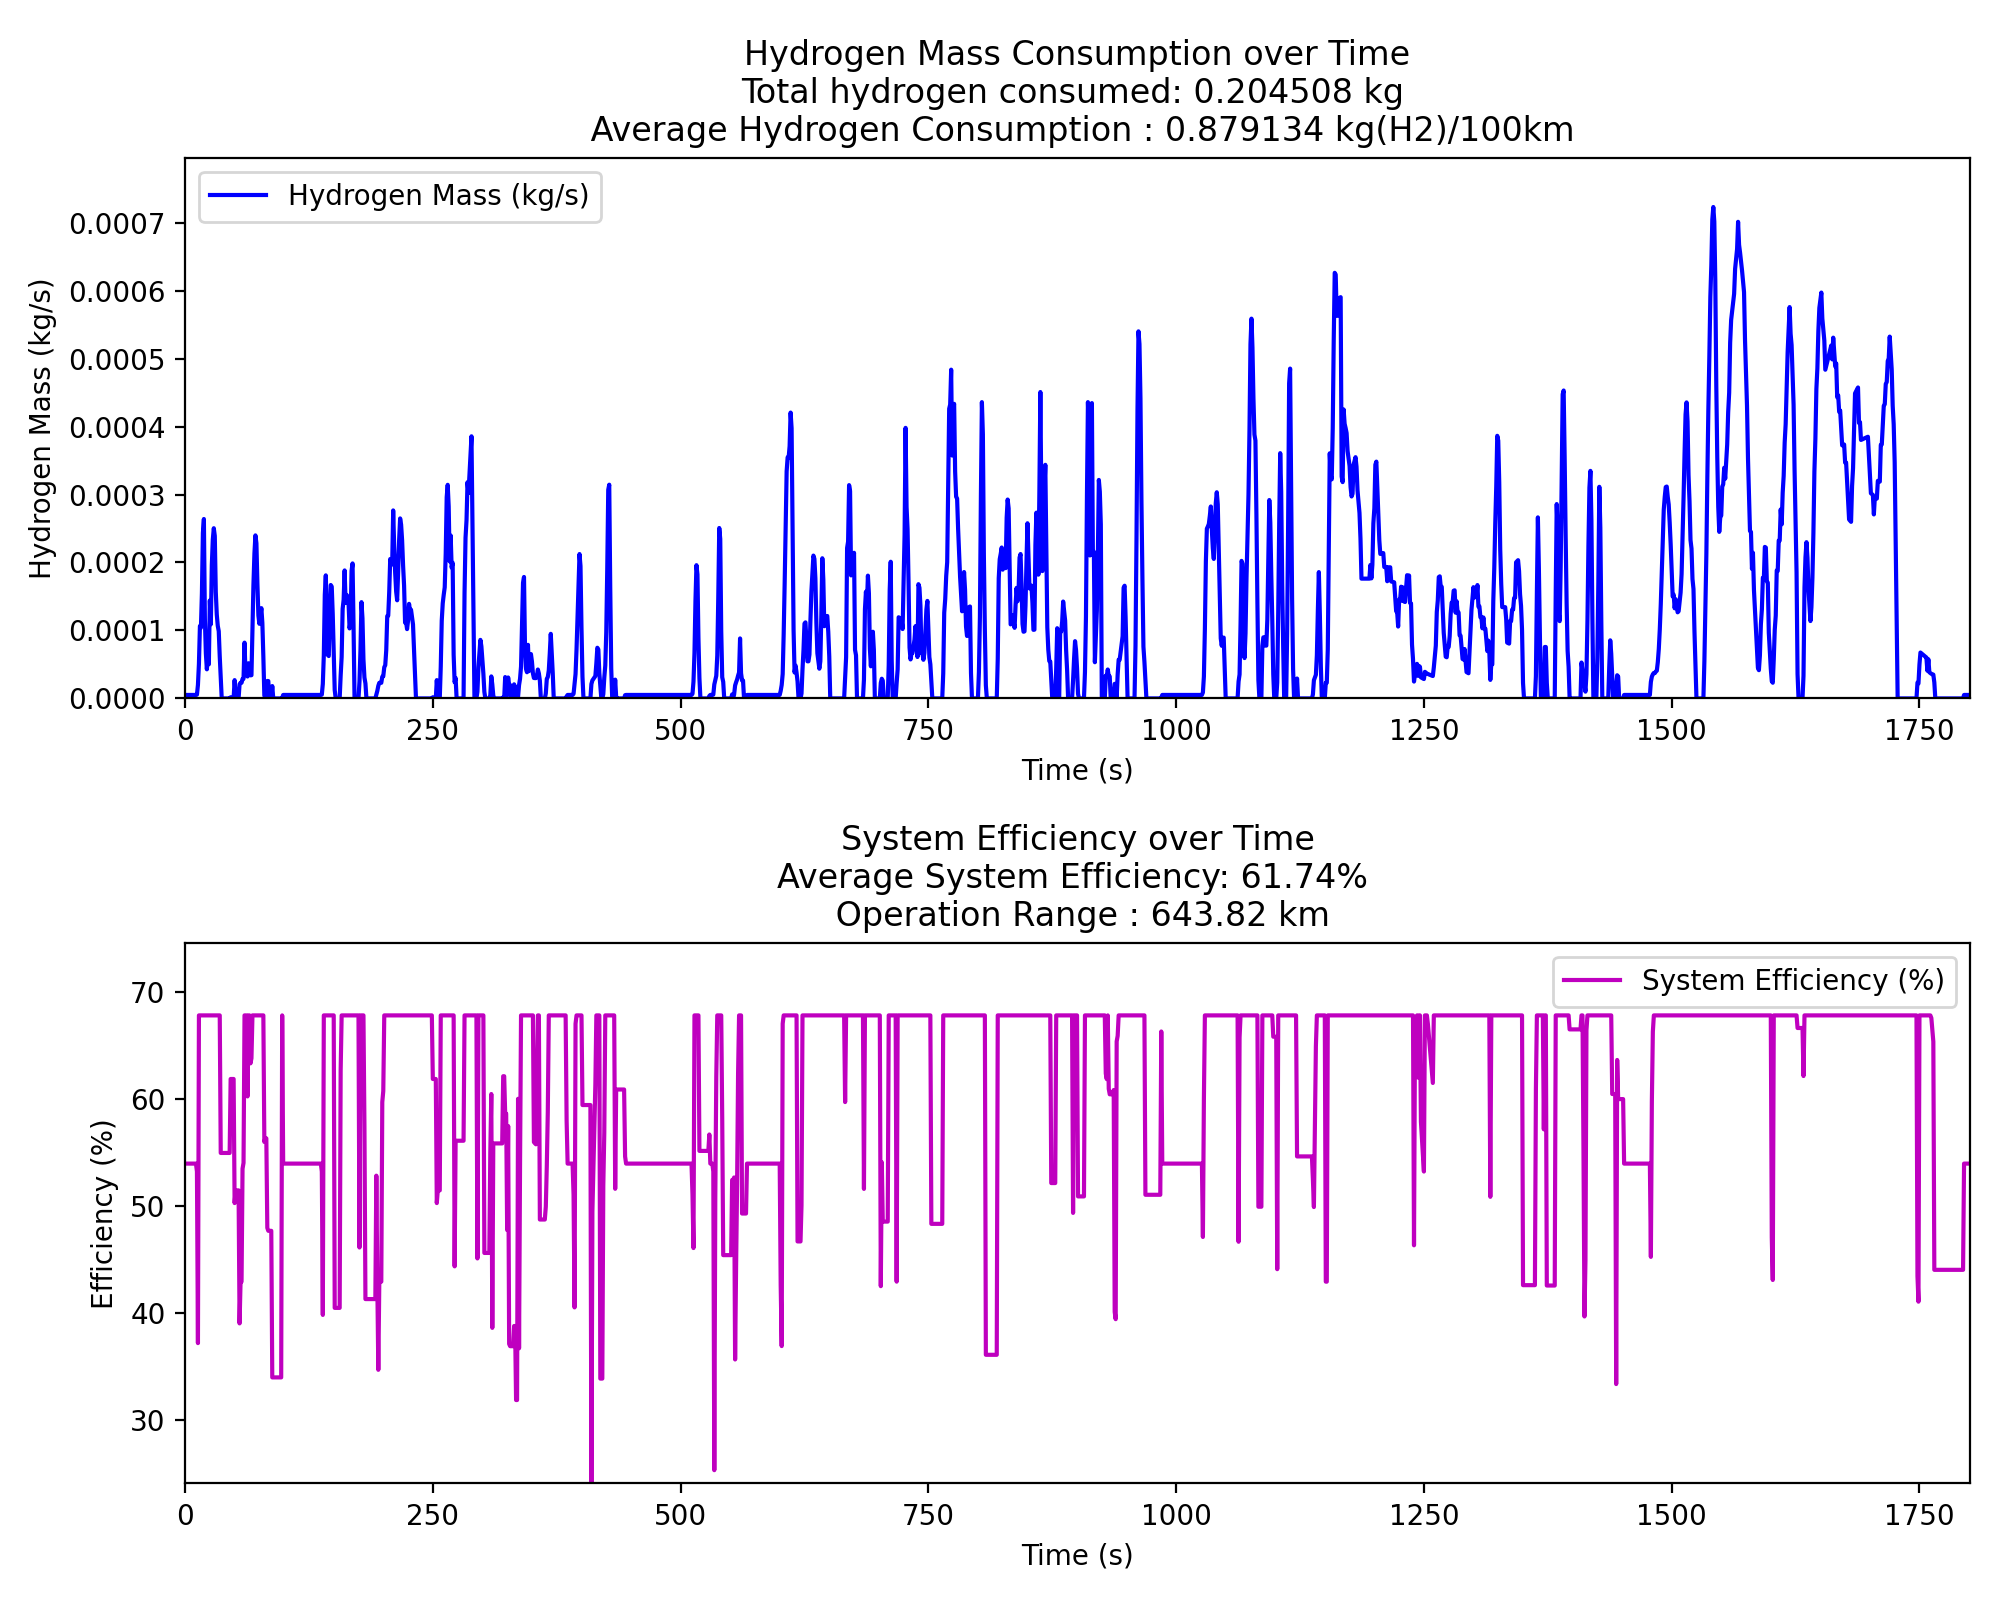
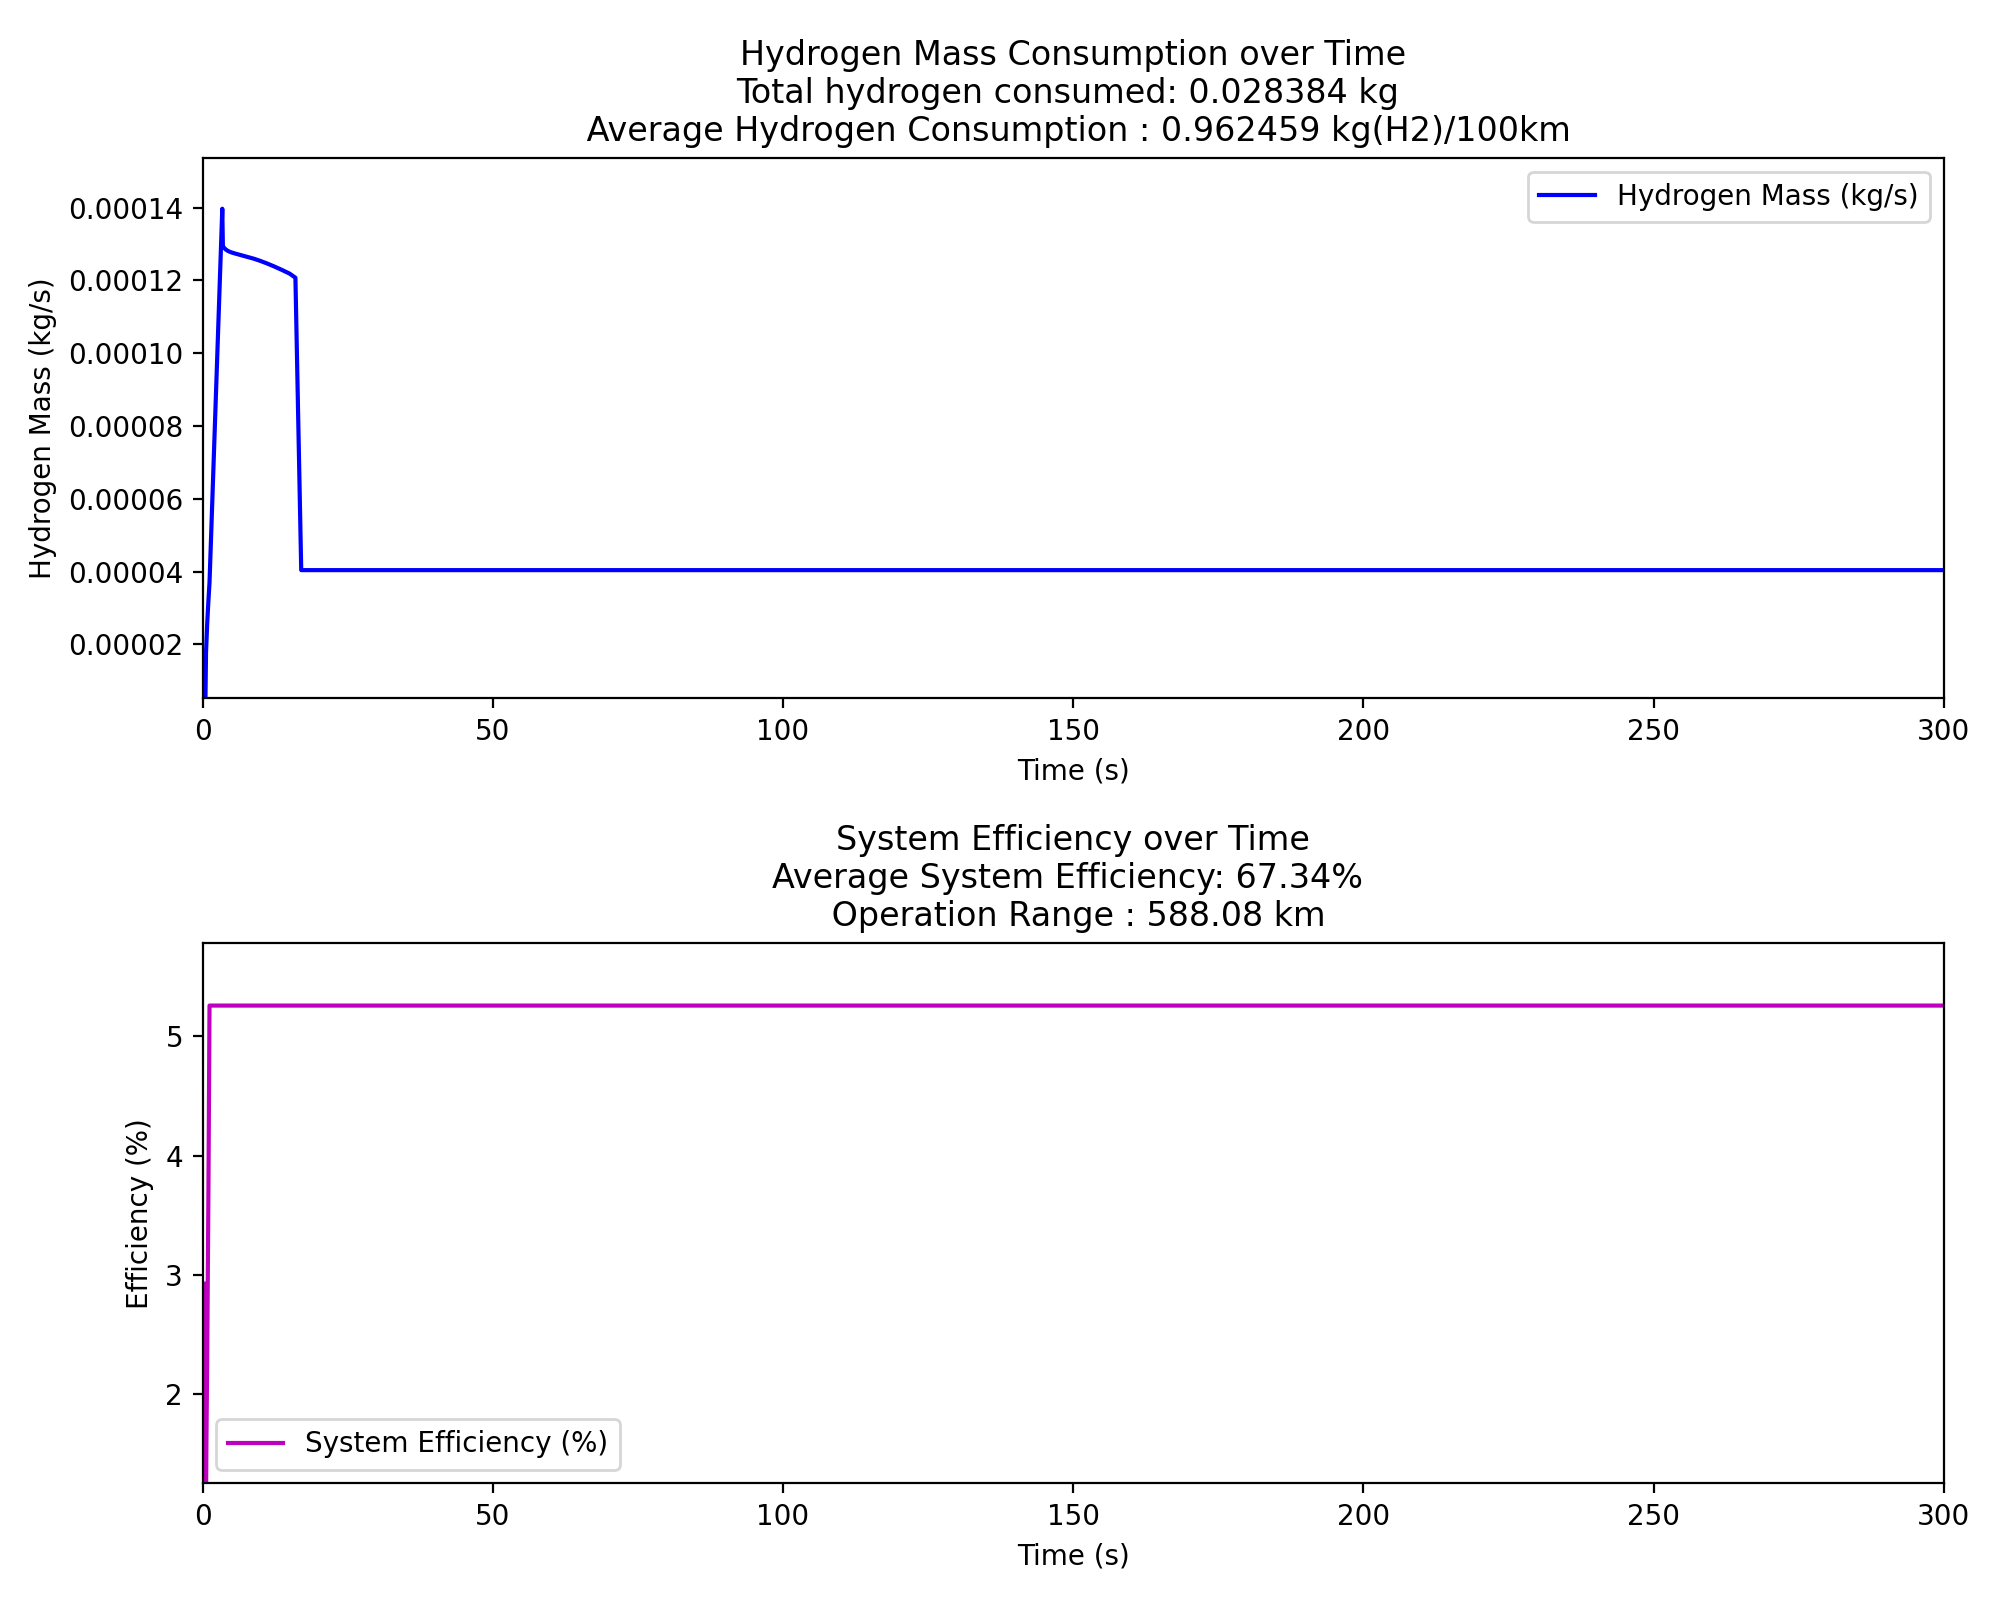
V53

diff --git a/C3/Plot02_v2.py b/C3/Plot02_v2.py
@@ -114,7 +114,7 @@ plt.savefig('Hydrogen Consumption vs Current Density in fit with fifth degree po
 plt.show()
 
 #-------------------- Drive Cycle Hydrogen Consumption Calculation ----------------------------#
-WLTC = pd.read_excel('Plot01.xlsx', sheet_name='Sheet1', header=0)
+WLTC = pd.read_excel('Plot01_130.xlsx', sheet_name='Sheet1', header=0)
 speed = WLTC.iloc[:, 1].values
 time = WLTC.iloc[:, 0].values
 
@@ -129,16 +129,10 @@ Instant_power, InP_Hybrid, Bat_motor_gen, Bat_motor_demand, F_total = calculate_
 SoC, power_battery,power_fuel_cell, power_hybrid = simulate_soc_and_power(time, InP_Hybrid)
 
 #-------------------- WLTC and Polarization Curve Analysis ----------------------------#
-# Load the WLTC and polarization curve data
-wltc_data = pd.read_excel('Plot01_130.xlsx', header=0)  # Ensure the path is correct
-polarization_curve = df  # Ensure df is defined correctly
 
-# Define parameters
-A_cell = data['Area_stack']
-N_cells = data['N_cell']
 
 # Load the WLTC and polarization curve data
-wltc_data = pd.read_excel('Plot01.xlsx', header=0)  # Ensure the path is correct
+wltc_data = WLTC  # Ensure the path is correct
 polarization_curve = df  # Ensure df is defined correctly
 
 # Define parameters
@@ -268,12 +262,24 @@ else:
     average_hydrogen_consumption = 0
 hydrogen_capacity = data['M_tank'][0]  # Hydrogen tank capacity in kg
 operation_range = hydrogen_capacity / (average_hydrogen_consumption / 100) if average_hydrogen_consumption > 0 else 0  # Range in km
-# Print results
+# Print result
+t = 300
 print(f'Total hydrogen consumed: {total_hydrogen_consumed:.6f} kg')
 print(f'Average System Efficiency: {average_efficiency:.2f}%')
 print(f'Average Hydrogen Consumption: {average_hydrogen_consumption:.6f} kg(H2)/100km')
 print(f'Operation Range: {operation_range:.2f} km')
 # Create a figure with two subplots
+
+P_thermal = np.ones(len(time))
+
+for i in range (len(time)):
+    P_thermal[i] = power_fuel_cell[t]/((1/efficiency[i])-1)
+
+
+
+
+
+
 plt.figure(figsize=(10, 8))
 # Plot hydrogen mass consumption over time (subplot 1)
 plt.subplot(2, 1, 1)
@@ -282,18 +288,22 @@ plt.title(f'Hydrogen Mass Consumption over Time\nTotal hydrogen consumed: {total
 plt.xlabel('Time (s)')
 plt.ylabel('Hydrogen Mass (kg/s)')
 plt.ylim([min(mass_hydro),max(mass_hydro)*1.1])
-plt.xlim([time[0],len(time)])
+plt.xlim([time[0],t])
 plt.legend()
 # Plot system efficiency over time (subplot 2)
 plt.subplot(2, 1, 2)
-plt.plot(time, efficiency * 100, 'm-', label='System Efficiency (%)')
+plt.plot(time, P_thermal, 'm-', label='System Efficiency (%)')
 plt.title(f'System Efficiency over Time\nAverage System Efficiency: {average_efficiency:.2f}% \n Operation Range : {operation_range:.2f} km' , fontsize=12)
 plt.xlabel('Time (s)')
 plt.ylabel('Efficiency (%)')
-plt.xlim([time[0],len(time)])
-plt.ylim([min(efficiency * 100), max(efficiency * 100) * 1.1])  # Corrected here
+plt.xlim([time[0],t])
+plt.ylim([min(P_thermal), max(P_thermal) * 1.1])  # Corrected here
 plt.legend()
 
 plt.tight_layout()  # Adjust the rect parameter to leave space for the suptitle
 plt.savefig('Hydrogen_Mass_and_Efficiency.png', dpi=200)
 plt.show()
+
+
+#==================================================================================================
+
